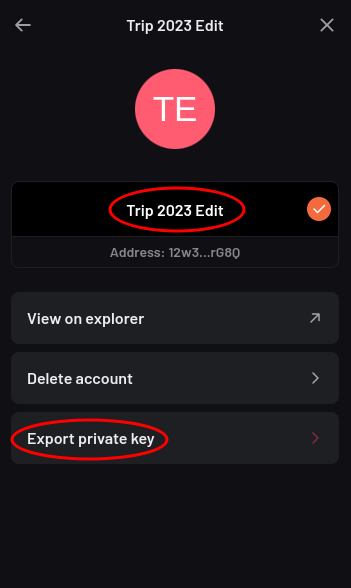
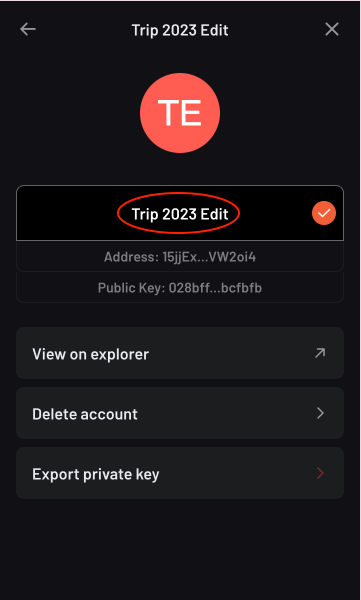
Address comments

diff --git a/docs/dapps/sdk/transaction.md b/docs/dapps/sdk/transaction.md
@@ -1,7 +1,7 @@
 ---
 sidebar_position: 10
-title: Transaction API Guide
-sidebar_label: Transaction API Guide
+title: Work with Transaction
+sidebar_label: Work with Transaction
 ---
 
 ## Unsigned Transaction Structure
@@ -10,7 +10,7 @@ An unsigned transaction contains the following elements:
 
 * `version`: This field specifies the version of the transaction format being used. This allows the network to handle different formats as the protocol evolves
 * `networkId`: This field identifies the specific network the transaction is intended for. This ensures that the transaction is processed on the correct network
-* `scriptOpt`: This optional field contains the script code to be executed as part of the transaction. This is often used for transactions involving smart contracts
+* `scriptOpt`: This optional field contains the script code to be executed as part of the transaction. This is used for transactions involving smart contracts
 * `gasAmount`: This field specifies the amount of gas that the transaction can consume
 * `gasPrice`: This field indicates the price per unit of gas that the sender is willing to pay. This determines the total transaction fee and can affect the transaction's priority in the network
 * `inputs`: This field lists the sources of funds for the transaction. Each input typically references a previous transaction output
@@ -21,15 +21,25 @@ An unsigned transaction contains the following elements:
 Unsigned transactions can only be submitted to the Alephium network after being signed. A signed transaction contains the following elements:
 
 * `unsigned`: The unsigned transaction
-* `scriptExecutionOk`: This field indicates whether the script transaction executed successfully
+* `scriptExecutionOk`: This field indicates whether the transaction script is executed successfully
 * `contractInputs`: This field contains all the contract assets required for executing the transaction
 * `generatedOutputs`: This field contains all outputs generated by the contract
 * `inputSignatures`: This field contains the signatures for the inputs used in the transaction
-* `scriptSignatures`: This field contains the signatures that are used by the asset script
+* `scriptSignatures`: This field contains the signatures that are used during the script execution
 
 ## Transaction Builder
 
 In Alephium, you can first build unsigned transactions, then sign the unsigned transactions, and finally submit the signed transactions to the network. The `TransactionBuilder` is used to build unsigned transactions.
+
+It needs your address and public key to build the transaction. If you have a private key, you can obtain the public key using the following method:
+
+```typescript
+import { publicKeyFromPrivateKey } from '@alephium/web3'
+
+const publicKey = publicKeyFromPrivateKey('your-private-key')
+```
+
+You can also export the public key from your [extension wallet](../../wallet/extension-wallet/getting-started.md#edit-account) or [desktop wallet](../../wallet/desktop-wallet/getting-started.md#5-export-public-key-and-private-key).
 
 ### Building Transfer Transactions
 
@@ -104,7 +114,7 @@ const txStatus = await nodeProvider.transactions.getTransactionsStatus({ txId })
 You can differentiate the transaction status using the `txStatus.type`:
 
 1. `MemPooled`: this means the transaction is in the mempool
-2. `Confirmed`: the transaction has been confirmed, and you can get the confirmations using `txStatus.chainConfirmations`
+2. `Confirmed`: the transaction has been confirmed, and you can get the number of confirmations using `txStatus.chainConfirmations`
 3. `TxNotFound`: the transaction does not exist
 
 ## Get Transaction Details
@@ -113,7 +123,7 @@ You can differentiate the transaction status using the `txStatus.type`:
 const details = await nodeProvider.transactions.getTransactionsDetailsTxid(txId)
 ```
 
-For transfer transactions, if you can obtain the transaction details, the transaction is successful. For script tx, you need to check `scriptExecutionOk` to determine if the transaction is executed successfully:
+For transfer transactions, you can obtain the transaction details if the transaction is successful. For script tx, you need to check `scriptExecutionOk` to determine if the transaction is executed successfully:
 
 ```typescript
 if (details.unsigned.scriptOpt !== undefined && !details.scriptExecutionOk) {

diff --git a/docs/dapps/sdk/block.md b/docs/dapps/sdk/block.md
@@ -1,7 +1,7 @@
 ---
 sidebar_position: 20
-title: Block API Guide
-sidebar_label: Block API Guide
+title: Work with Block
+sidebar_label: Work with Block
 ---
 
 ## Block Structure
@@ -51,7 +51,7 @@ const result = await nodeProvider.blockflow.getBlockflowBlocks({ fromTs, toTs })
 for (let fromGroup = 0; fromGroup < TOTAL_NUMBER_OF_GROUPS; fromGroup += 1) {
   for (let toGroup = 0; toGroup < TOTAL_NUMBER_OF_GROUPS; toGroup += 1) {
     const chainIndex = fromGroup * TOTAL_NUMBER_OF_GROUPS + toGroup
-    const blocks = result.blocks[chainIndex]
+    console.log(`blocks for chain index ${fromGroup} -> ${toGroup} is `, result.blocks[chainIndex])
   }
 }
 ```
@@ -63,7 +63,7 @@ const result = await nodeProvider.blockflow.getBlockflowBlocksWithEvents({ fromT
 for (let fromGroup = 0; fromGroup < TOTAL_NUMBER_OF_GROUPS; fromGroup += 1) {
   for (let toGroup = 0; toGroup < TOTAL_NUMBER_OF_GROUPS; toGroup += 1) {
     const chainIndex = fromGroup * TOTAL_NUMBER_OF_GROUPS + toGroup
-    const blocksAndEvents = result.blocksAndEvents[chainIndex]
+    console.log(`blocks and events for chain index ${fromGroup} -> ${toGroup} is `, result.blocksAndEvents[chainIndex])
   }
 }
 ```
@@ -79,6 +79,26 @@ const chainInfo = await nodeProvider.blockflow.getBlockflowChainInfo({
   toGroup: 0 // the to group of chain index
 })
 const latestHeight = chainInfo.currentHeight
+```
+
+## Get Blocks Between Heights
+
+Currently, Alephium has 16 chains, and each has a different height. If you need to get blocks between specific heights, you'll need to fetch them separately from each chain.
+
+```typescript
+import { NodeProvider, node } from '@alephium/web3'
+
+const nodeProvider = new NodeProvider('http://127.0.0.1:22973')
+
+async function getBlocksBetweenHeight(fromGroup: number, toGroup: number, fromHeight: number, toHeight: number): Promise<node.BlockEntry[]> {
+  const blocks: node.BlockEntry[] = []
+  for (let height = fromHeight; height <= toHeight; fromHeight += 1) {
+    const hashes = await nodeProvider.blockflow.getBlockflowHashes({ fromGroup, toGroup, height })
+    const block = await nodeProvider.blockflow.getBlockflowBlocksBlockHash(hashes[0])
+    blocks.push(block)
+  }
+  return blocks
+}
 ```
 
 ## Block Subscription

diff --git a/docs/wallet/extension-wallet/getting-started.md b/docs/wallet/extension-wallet/getting-started.md
@@ -127,11 +127,13 @@ After choosing the desired options, a new account will be created and
 ready to be used.
 
 #### Edit Account
-You can also edit the name of an existing account, export its private
+You can also edit the name of an existing account, export its public key and private
 key, delete an account, etc:
 
 <img src={require("./media/manage-accounts-4.png").default} alt="Account List" width="250"/>
 &nbsp;&nbsp;&nbsp;&nbsp;
 <img src={require("./media/manage-accounts-5.png").default} alt="Edit Account" width="250"/>
 &nbsp;&nbsp;&nbsp;&nbsp;
-<img src={require("./media/manage-accounts-6.png").default} alt="Export Private Key" width="250"/>
+<img src={require("./media/manage-accounts-6.png").default} alt="Export Public Key" width="250"/>
+&nbsp;&nbsp;&nbsp;&nbsp;
+<img src={require("./media/manage-accounts-7.png").default} alt="Export Private Key" width="250"/>

diff --git a/docs/wallet/desktop-wallet/getting-started.md b/docs/wallet/desktop-wallet/getting-started.md
@@ -81,3 +81,7 @@ By clicking on a specific address, you'll see the address details including its 
 Using the Settings wheel at the top of the application, you will be able to edit the Address label, choose it as your default address or sweep all its unlocked funds to an address of your choice.
 
 <img src={require("./media/gs13.png").default} alt="Prompt to configure address options" width="auto" style={{ height: '200px' }} />
+
+## 5. Export Public Key and Private Key
+
+<img src={require("./media/gs14.png").default} alt="Export public key and private key" width="auto" style={{ height: '200px' }} />

diff --git a/docs/dapps/sdk/signer-provider.md b/docs/dapps/sdk/signer-provider.md
@@ -6,7 +6,7 @@ sidebar_label: SignerProvider
 
 The `SignerProvider` is an abstraction of an Alephium account. It can be used to sign messages and transactions, as well as send signed transactions to the Alephium blockchain.
 
-## Creating SignerProvider
+## Create SignerProvider
 
 The SDK offers four types of signer providers, each designed for specific use cases. Below is a guide on how to create each type of `SignerProvider`.
 
